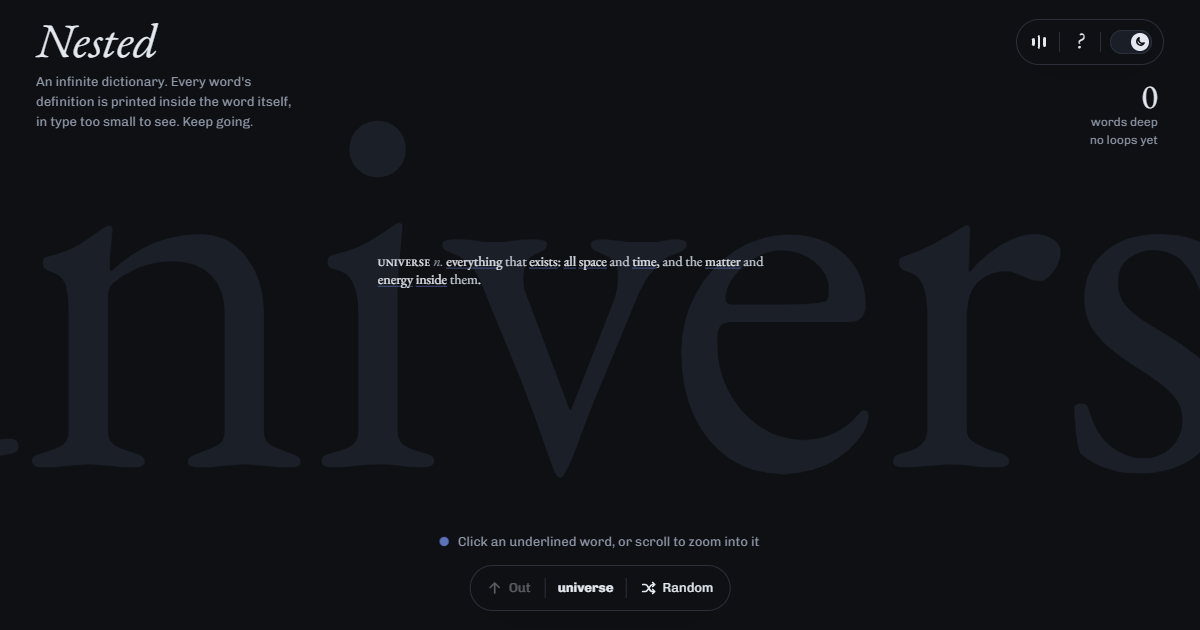
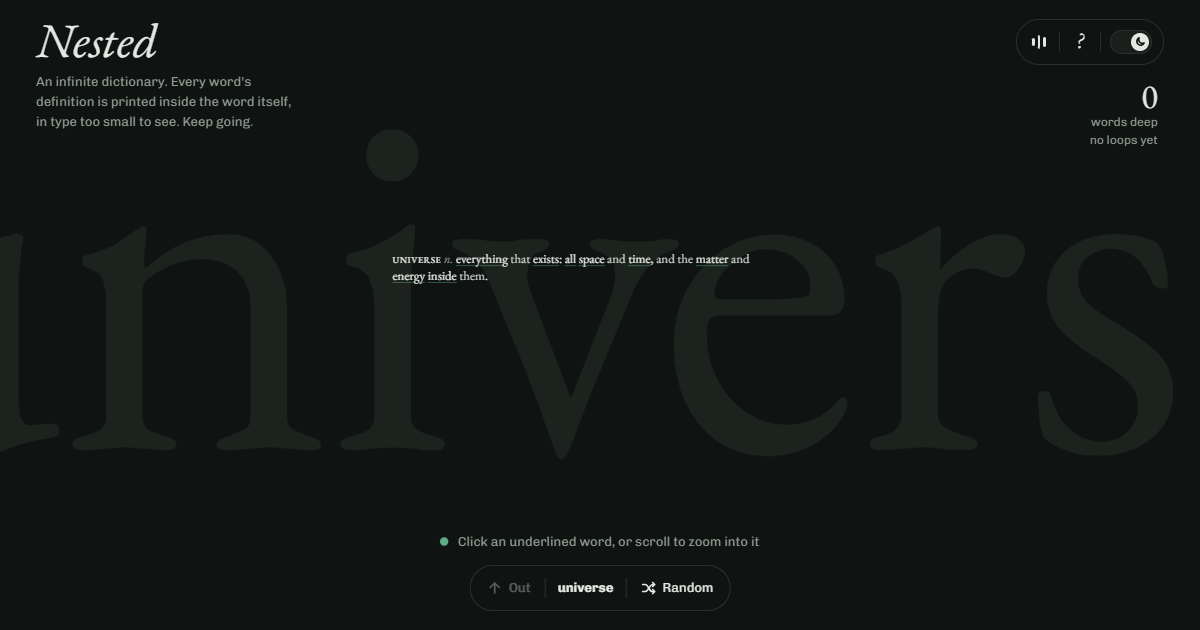
Switch to the sage and ink palette
Sage paper and moss greys with a green accent in light mode; green-black with mint at night. Icons and share card recoloured.

Changed region(s): [[0.3083, 0.3921, 0.6475, 0.4524]]

diff --git a/index.html b/index.html
@@ -10,7 +10,7 @@
 <link rel="icon" href="favicon.svg" type="image/svg+xml">
 <link rel="icon" href="favicon-32.png" sizes="32x32" type="image/png">
 <link rel="apple-touch-icon" href="apple-touch-icon.png">
-<meta name="theme-color" content="#F6F7F9">
+<meta name="theme-color" content="#F5F6F2">
 <meta property="og:type" content="website">
 <meta property="og:site_name" content="Nested">
 <meta property="og:title" content="Nested — an infinite dictionary">
@@ -30,8 +30,8 @@
 <link rel="preconnect" href="https://fonts.gstatic.com" crossorigin>
 <link href="https://fonts.googleapis.com/css2?family=Chivo:wght@400;700&family=EB+Garamond:ital,wght@0,400;0,500;1,400&display=swap" rel="stylesheet">
 <style>
-:root{--paper:#F6F7F9;--ink:#15171C;--ghost:#E2E6ED;--soft:#5B6270;--faint:#98A0AD;--line:#D8DDE5;--chip:#EBEEF3;--acc:#3355D1;--acc-ink:#2B47B5;--sub:#535A66;--nw:#3F4450;--ul:rgba(51,85,209,.55);--ul2:rgba(51,85,209,.3);--focusbg:rgba(51,85,209,.08);--kbd:#fff;--toast-hi:#9DB4FF;--solid-hover:#000;--shade:rgba(20,30,60,.35);--ease:cubic-bezier(.22,1,.36,1);--pad:clamp(16px,3vw,36px);--top:clamp(14px,3vh,28px);--bot:max(clamp(14px,3vh,28px),env(safe-area-inset-bottom))}
-:root[data-theme="dark"]{--paper:#0E1014;--ink:#E4E8EF;--ghost:#1B1F27;--soft:#8E97A6;--faint:#5A6270;--line:#2A2F39;--chip:#1A1E26;--acc:#7D9BFF;--acc-ink:#9DB4FF;--sub:#8E97A6;--nw:#C7CDD7;--ul:rgba(125,155,255,.6);--ul2:rgba(125,155,255,.35);--focusbg:rgba(125,155,255,.12);--kbd:#161920;--toast-hi:#2B47B5;--solid-hover:#fff;--shade:rgba(0,0,0,.6);color-scheme:dark}
+:root{--paper:#F5F6F2;--ink:#161A16;--ghost:#E1E5DC;--soft:#5A6358;--faint:#9AA296;--line:#D7DCD2;--chip:#E9ECE5;--acc:#2F7D5B;--acc-ink:#256B4C;--sub:#4F584E;--nw:#3C443B;--ul:rgba(47,125,91,.55);--ul2:rgba(47,125,91,.3);--focusbg:rgba(47,125,91,.08);--kbd:#fff;--toast-hi:#6FCF9F;--solid-hover:#000;--shade:rgba(20,40,28,.35);--ease:cubic-bezier(.22,1,.36,1);--pad:clamp(16px,3vw,36px);--top:clamp(14px,3vh,28px);--bot:max(clamp(14px,3vh,28px),env(safe-area-inset-bottom))}
+:root[data-theme="dark"]{--paper:#0F1311;--ink:#E3E8E3;--ghost:#1C221E;--soft:#8F9A91;--faint:#5A635C;--line:#29302B;--chip:#1A1F1C;--acc:#6FCF9F;--acc-ink:#8EDDB5;--sub:#8F9A91;--nw:#C6CEC7;--ul:rgba(111,207,159,.55);--ul2:rgba(111,207,159,.3);--focusbg:rgba(111,207,159,.12);--kbd:#151A17;--toast-hi:#236548;--solid-hover:#fff;--shade:rgba(0,0,0,.6);color-scheme:dark}
 /* switching themes: ease every colour for a moment, then get out of the way */
 .theming,.theming *{transition:background-color .5s ease,color .5s ease,border-color .5s ease,text-decoration-color .5s ease!important}
 *{box-sizing:border-box;margin:0;padding:0}
@@ -125,7 +125,7 @@ abbr{text-decoration:none}
 
 /* help: a dictionary entry for the piece itself */
 .help{margin:auto;width:min(460px,calc(100vw - 32px));max-height:calc(100dvh - 32px);overflow:auto;border:1px solid var(--line);border-radius:20px;background:var(--paper);color:var(--ink);padding:28px 28px 24px;box-shadow:0 30px 80px -30px rgba(0,0,0,.45);user-select:text;-webkit-user-select:text}
-.help::backdrop{background:rgba(14,16,20,.35)}
+.help::backdrop{background:rgba(12,18,14,.35)}
 .help h2{font:400 34px/1 "EB Garamond",Georgia,serif}
 .help h2 .hw{font-variant:small-caps;letter-spacing:.04em}
 .help h2 .pos{font-style:italic;color:var(--soft);font-size:26px}
@@ -412,7 +412,7 @@ stage.addEventListener('focusin',e=>{const w=e.target.closest&&e.target.closest(
 // ---- night mode + sound controls ----
 const rootH=document.documentElement,themeBtn=$('themeBtn'),sndBtn=$('sndBtn'),metaTheme=document.querySelector('meta[name="theme-color"]');
 function setTheme(t,save,ease){if(ease&&!reduce){rootH.classList.add('theming');clearTimeout(setTheme.t);setTheme.t=setTimeout(()=>rootH.classList.remove('theming'),650)}
-  rootH.dataset.theme=t;themeBtn.setAttribute('aria-checked',t==='dark');metaTheme.content=t==='dark'?'#0E1014':'#F6F7F9';snd.night(t==='dark');
+  rootH.dataset.theme=t;themeBtn.setAttribute('aria-checked',t==='dark');metaTheme.content=t==='dark'?'#0F1311':'#F5F6F2';snd.night(t==='dark');
   if(save)try{localStorage.setItem('nested-theme',t)}catch(e){}}
 setTheme(rootH.dataset.theme,false,false);
 let chosen=false;

diff --git a/prompt.md b/prompt.md
@@ -1,6 +1,6 @@
 Build "Nested", a single-file infinite-zoom dictionary made only of DOM and typography. One word fills the screen, and its definition is printed inside it, forty times smaller. Zoom into any underlined word of the definition and find its definition inside it, forever, until you loop.
 
-Look: cool paper #F6F7F9, ink #15171C, ghost #E2E6ED, slate #5B6270, cobalt #3355D1. The current word is huge ghost-grey EB Garamond, its letterforms giant shapes behind the text. The definition sits centred: small-caps headword, italic part of speech, text. Dictionary words get a thin cobalt underline. Chivo UI: italic "Nested" title, "words deep / loops found" counter, and a bottom dock: Out, pill breadcrumbs, Random.
+Look: sage paper #F5F6F2, ink #161A16, ghost #E1E5DC, moss grey #5A6358, green #2F7D5B. The current word is huge ghost-grey EB Garamond, its letterforms giant shapes behind the text. The definition sits centred: small-caps headword, italic part of speech, text. Dictionary words get a thin green underline. Chivo UI: italic "Nested" title, "words deep / loops found" counter, and a bottom dock: Out, pill breadcrumbs, Random.
 
 Data: about 70 hand-written circular definitions that reuse each other.
 
@@ -10,6 +10,6 @@ Interaction: click a word to glide into it; the flight carries through the re-ro
 
 Signature moment: reaching a word already on your path shows "↺ all again: a loop, 3 words long. Every dictionary is a circle." and turns the crumb red. It stands alone: top right is one capsule matching the dock, holding sound (three breathing bars), an italic Garamond "?" and a sliding sun/moon night switch.
 
-Night mode: slate-black paper #0E1014, ink #E4E8EF, ghost #1B1F27, periwinkle #7D9BFF; follows the system until chosen, then remembered.
+Night mode: green-black paper #0F1311, ink #E3E8E3, ghost #1C221E, mint #6FCF9F; follows the system until chosen, then remembered.
 
 Sound, all Web Audio and very quiet: slow distant sine swells from the same pentatonic scale (no noise), a breathing low fifth (A2 + E3), a paper rustle and soft note on each dive, one pentatonic step lower per level and wrapping round, and a rising three-note chord when a loop closes. Starts on the first gesture; M mutes.
